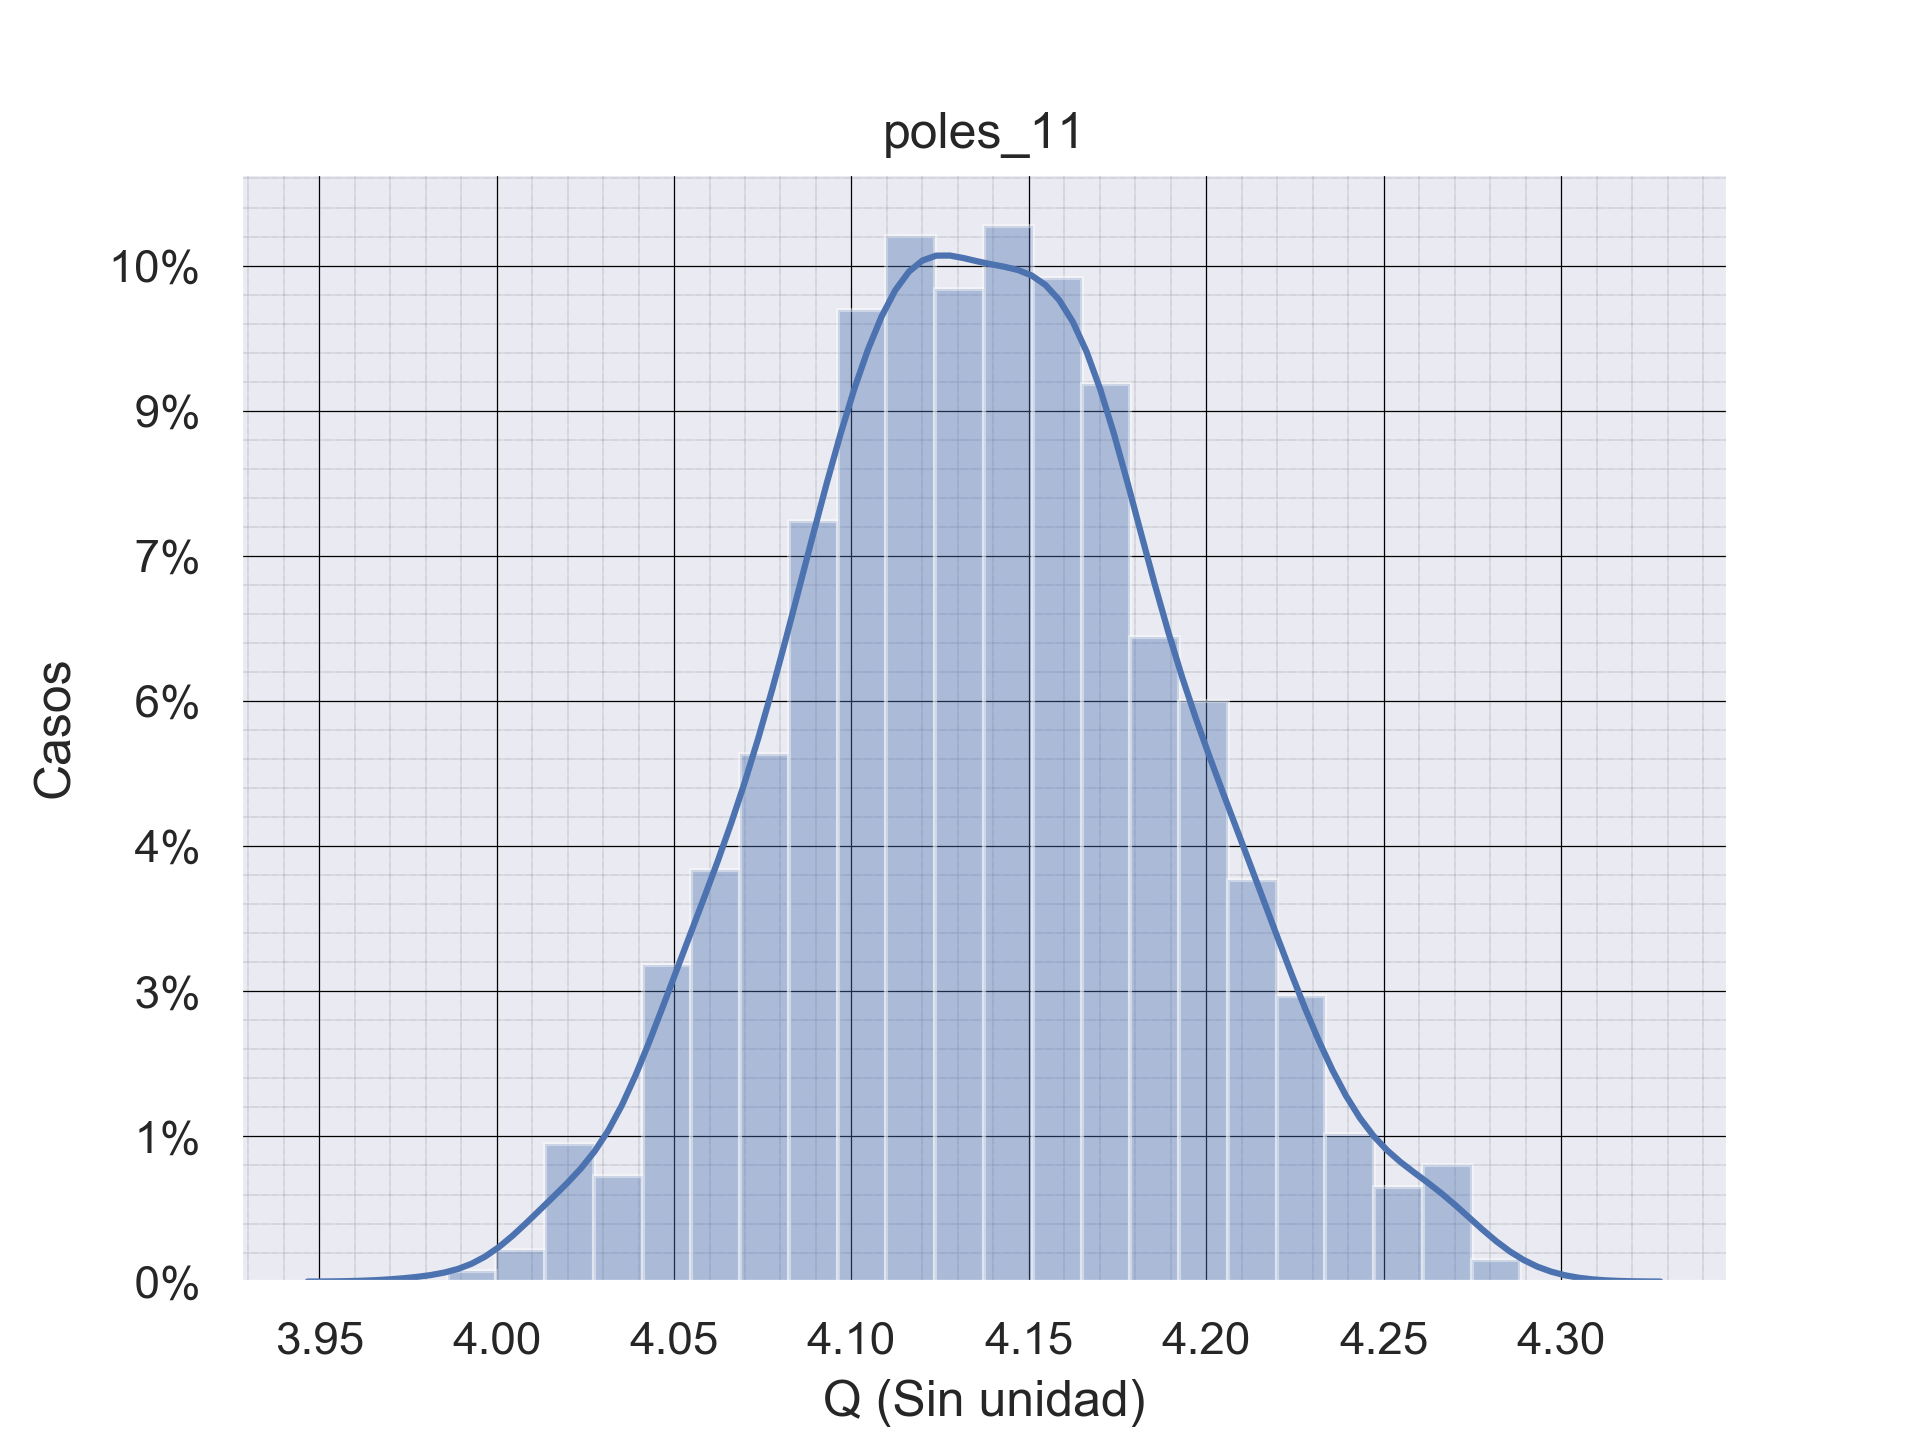
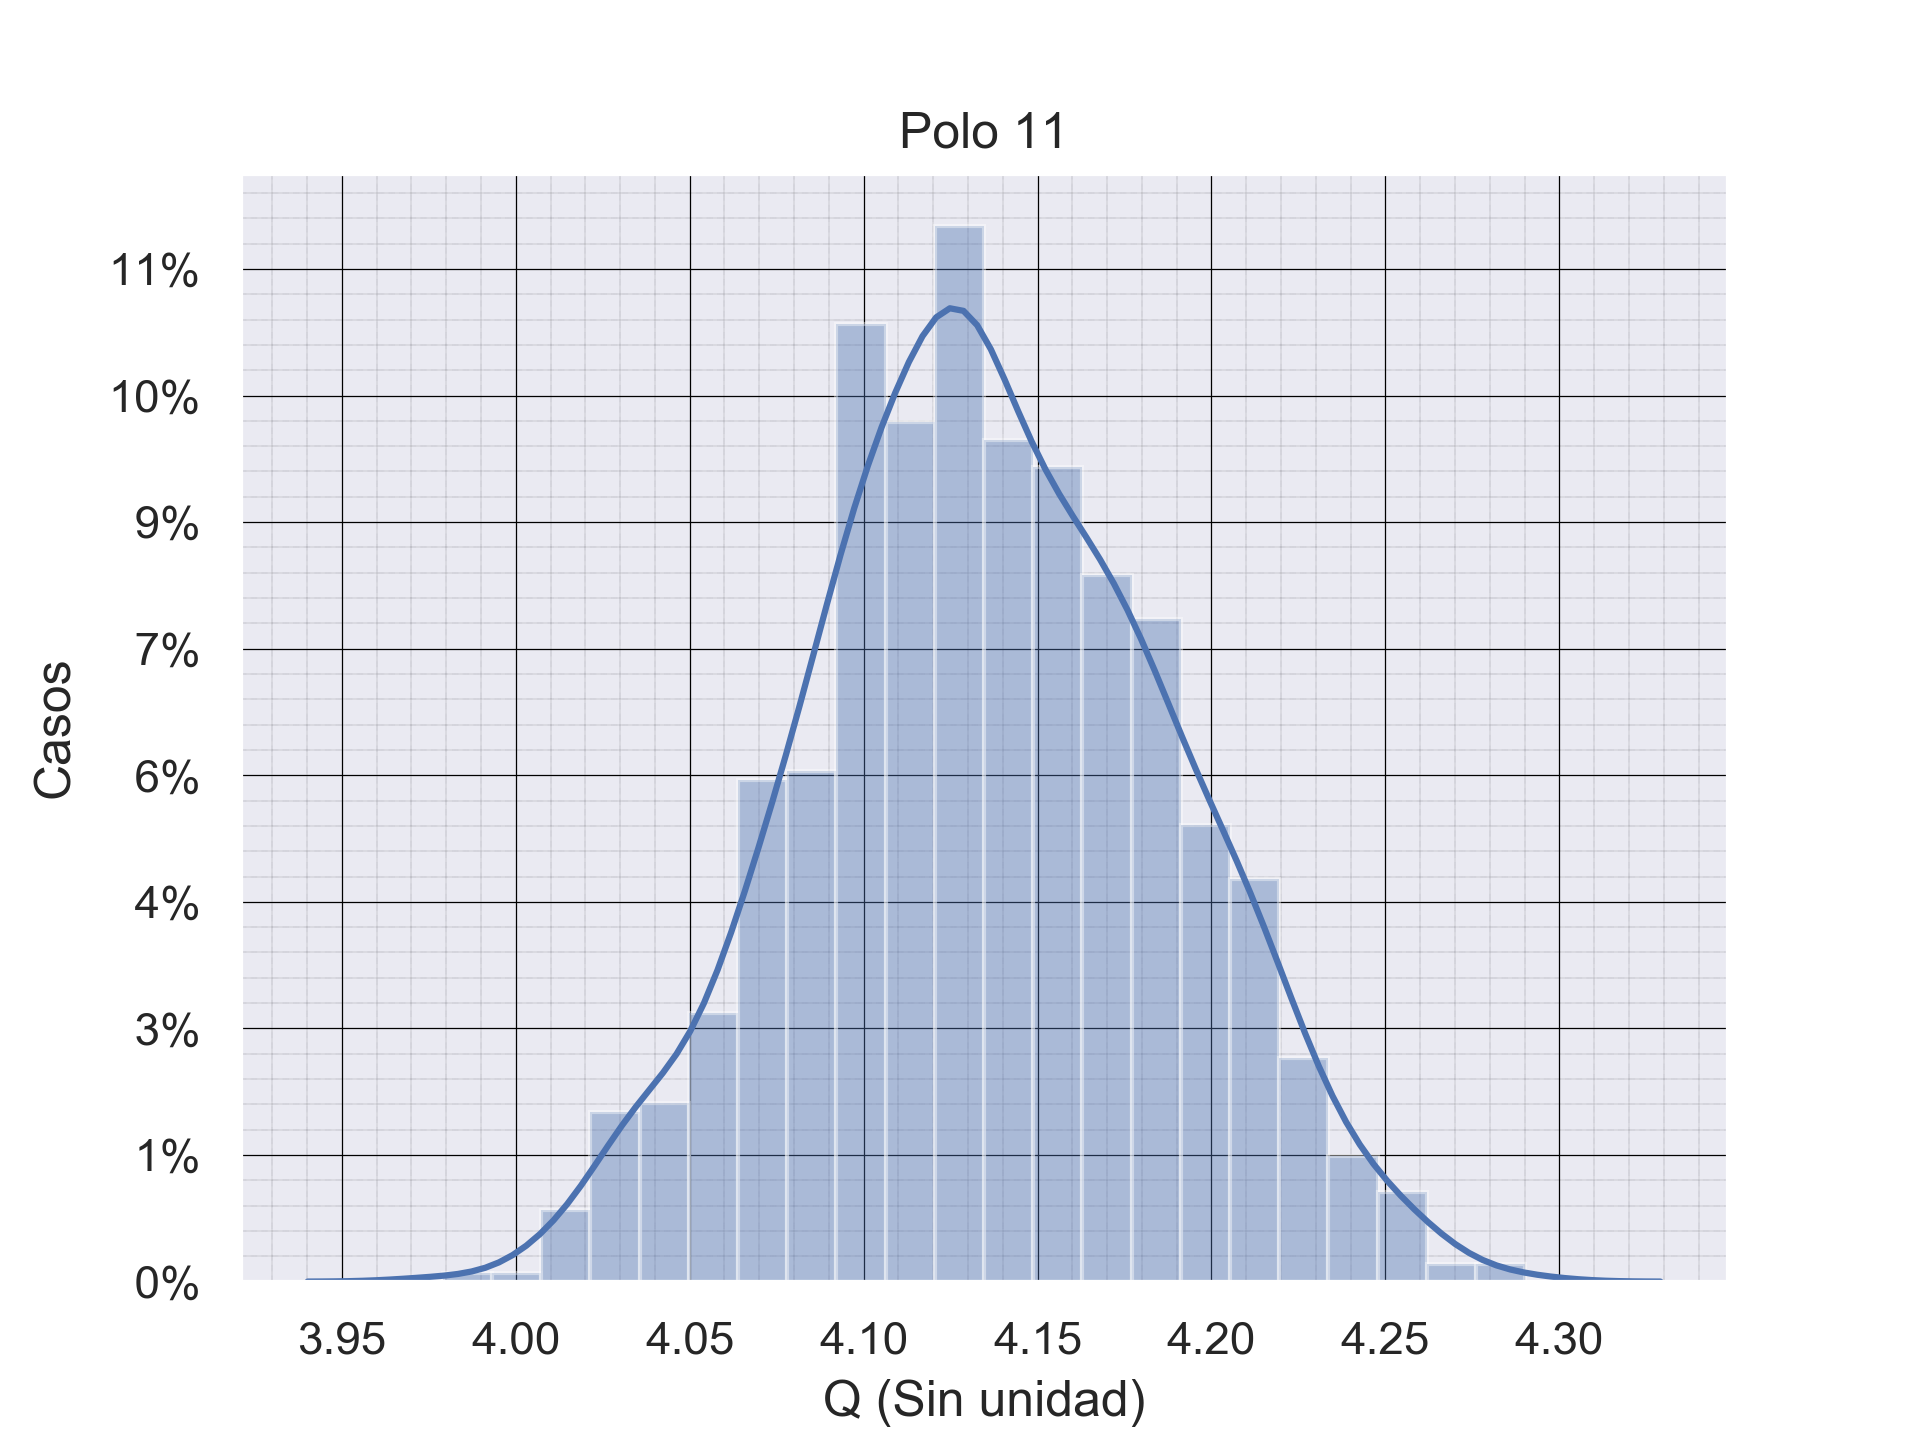
add

diff --git a/TP5/histogramas/histograma_joaco.py b/TP5/histogramas/histograma_joaco.py
@@ -106,7 +106,7 @@ def plot_hist(circuit_id, mode, sing_id, width, width2):
         textmode = "Polo"
     else:
         textmode = "Cero"
-    plt.title(textmode + str(sing_id) + str(circuit_id))
+    plt.title(textmode + " " + str(sing_id) + str(circuit_id))
 
     make_histogram(variable="Fo",
                    unidad="Hz",
@@ -114,7 +114,7 @@ def plot_hist(circuit_id, mode, sing_id, width, width2):
                    filename="joaco/histograma_joaco_w0_"+str(mode)+"_"+str(sing_id) + str(circuit_id) +".png",
                    bar_width=width)
 
-    plt.title(textmode + str(sing_id) + str(circuit_id))
+    plt.title(textmode + " " + str(sing_id) + str(circuit_id))
     make_histogram(variable="Q",
                    unidad="Sin unidad",
                    data=data["q"],
